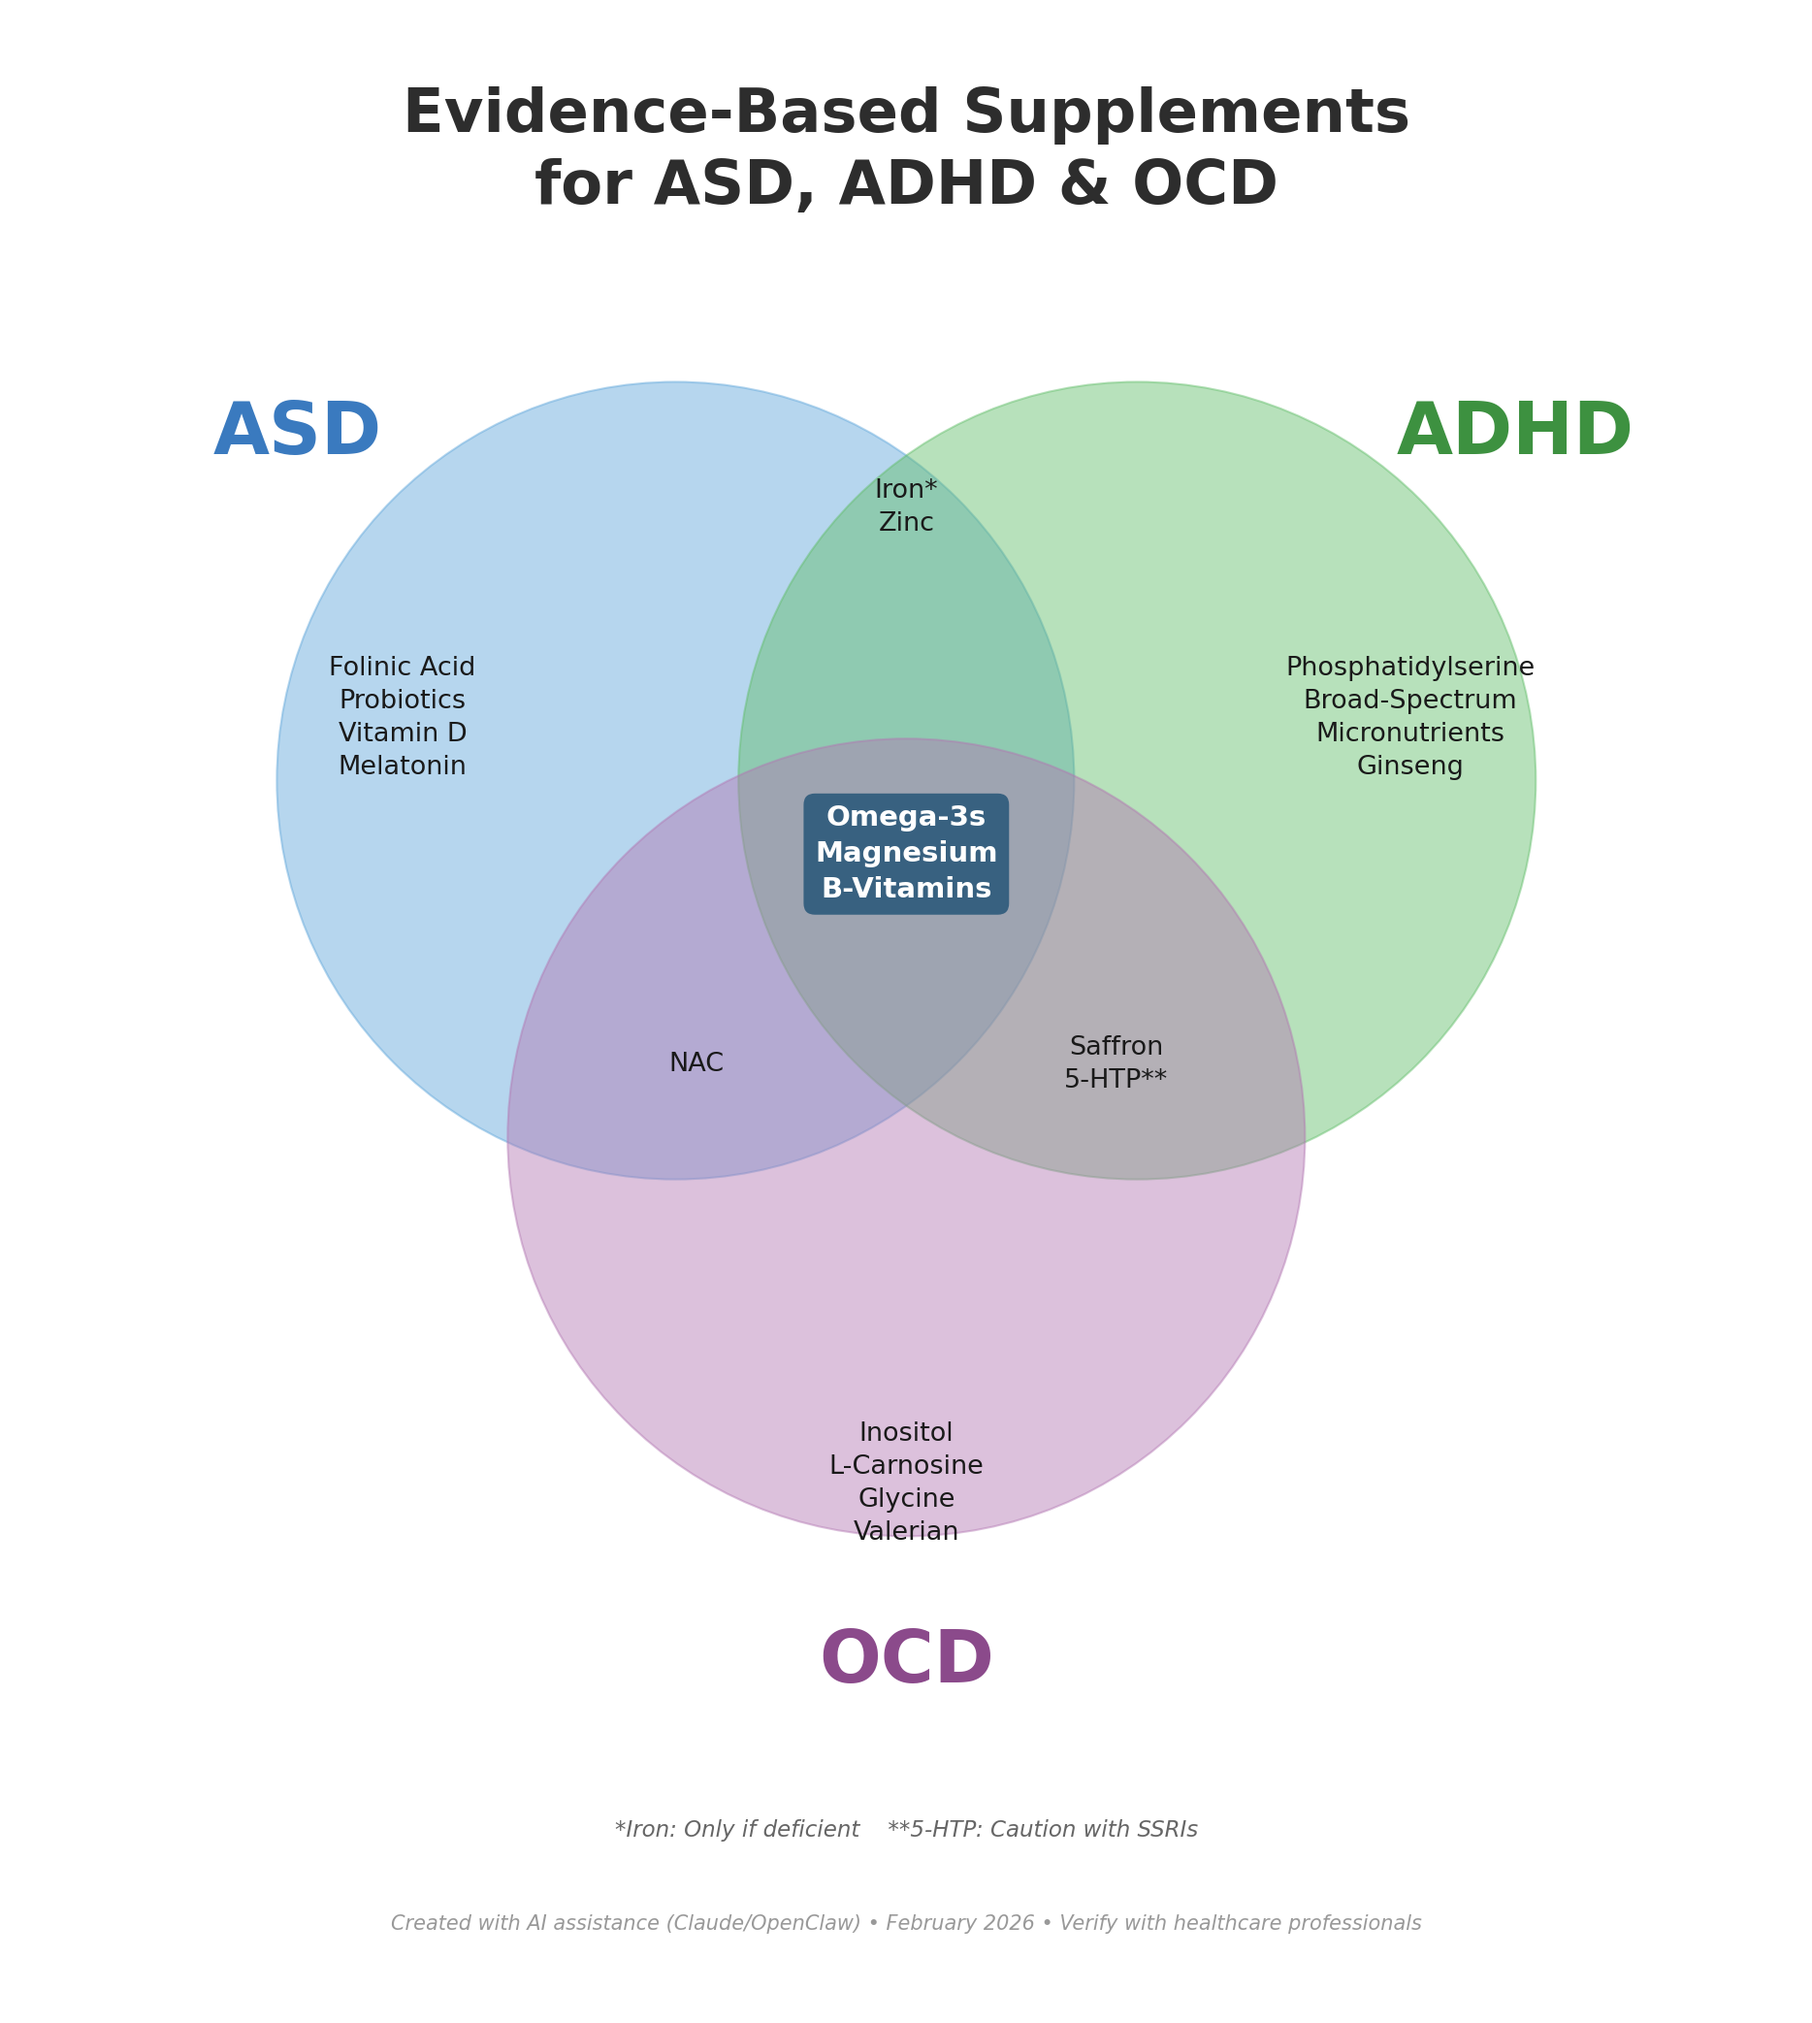
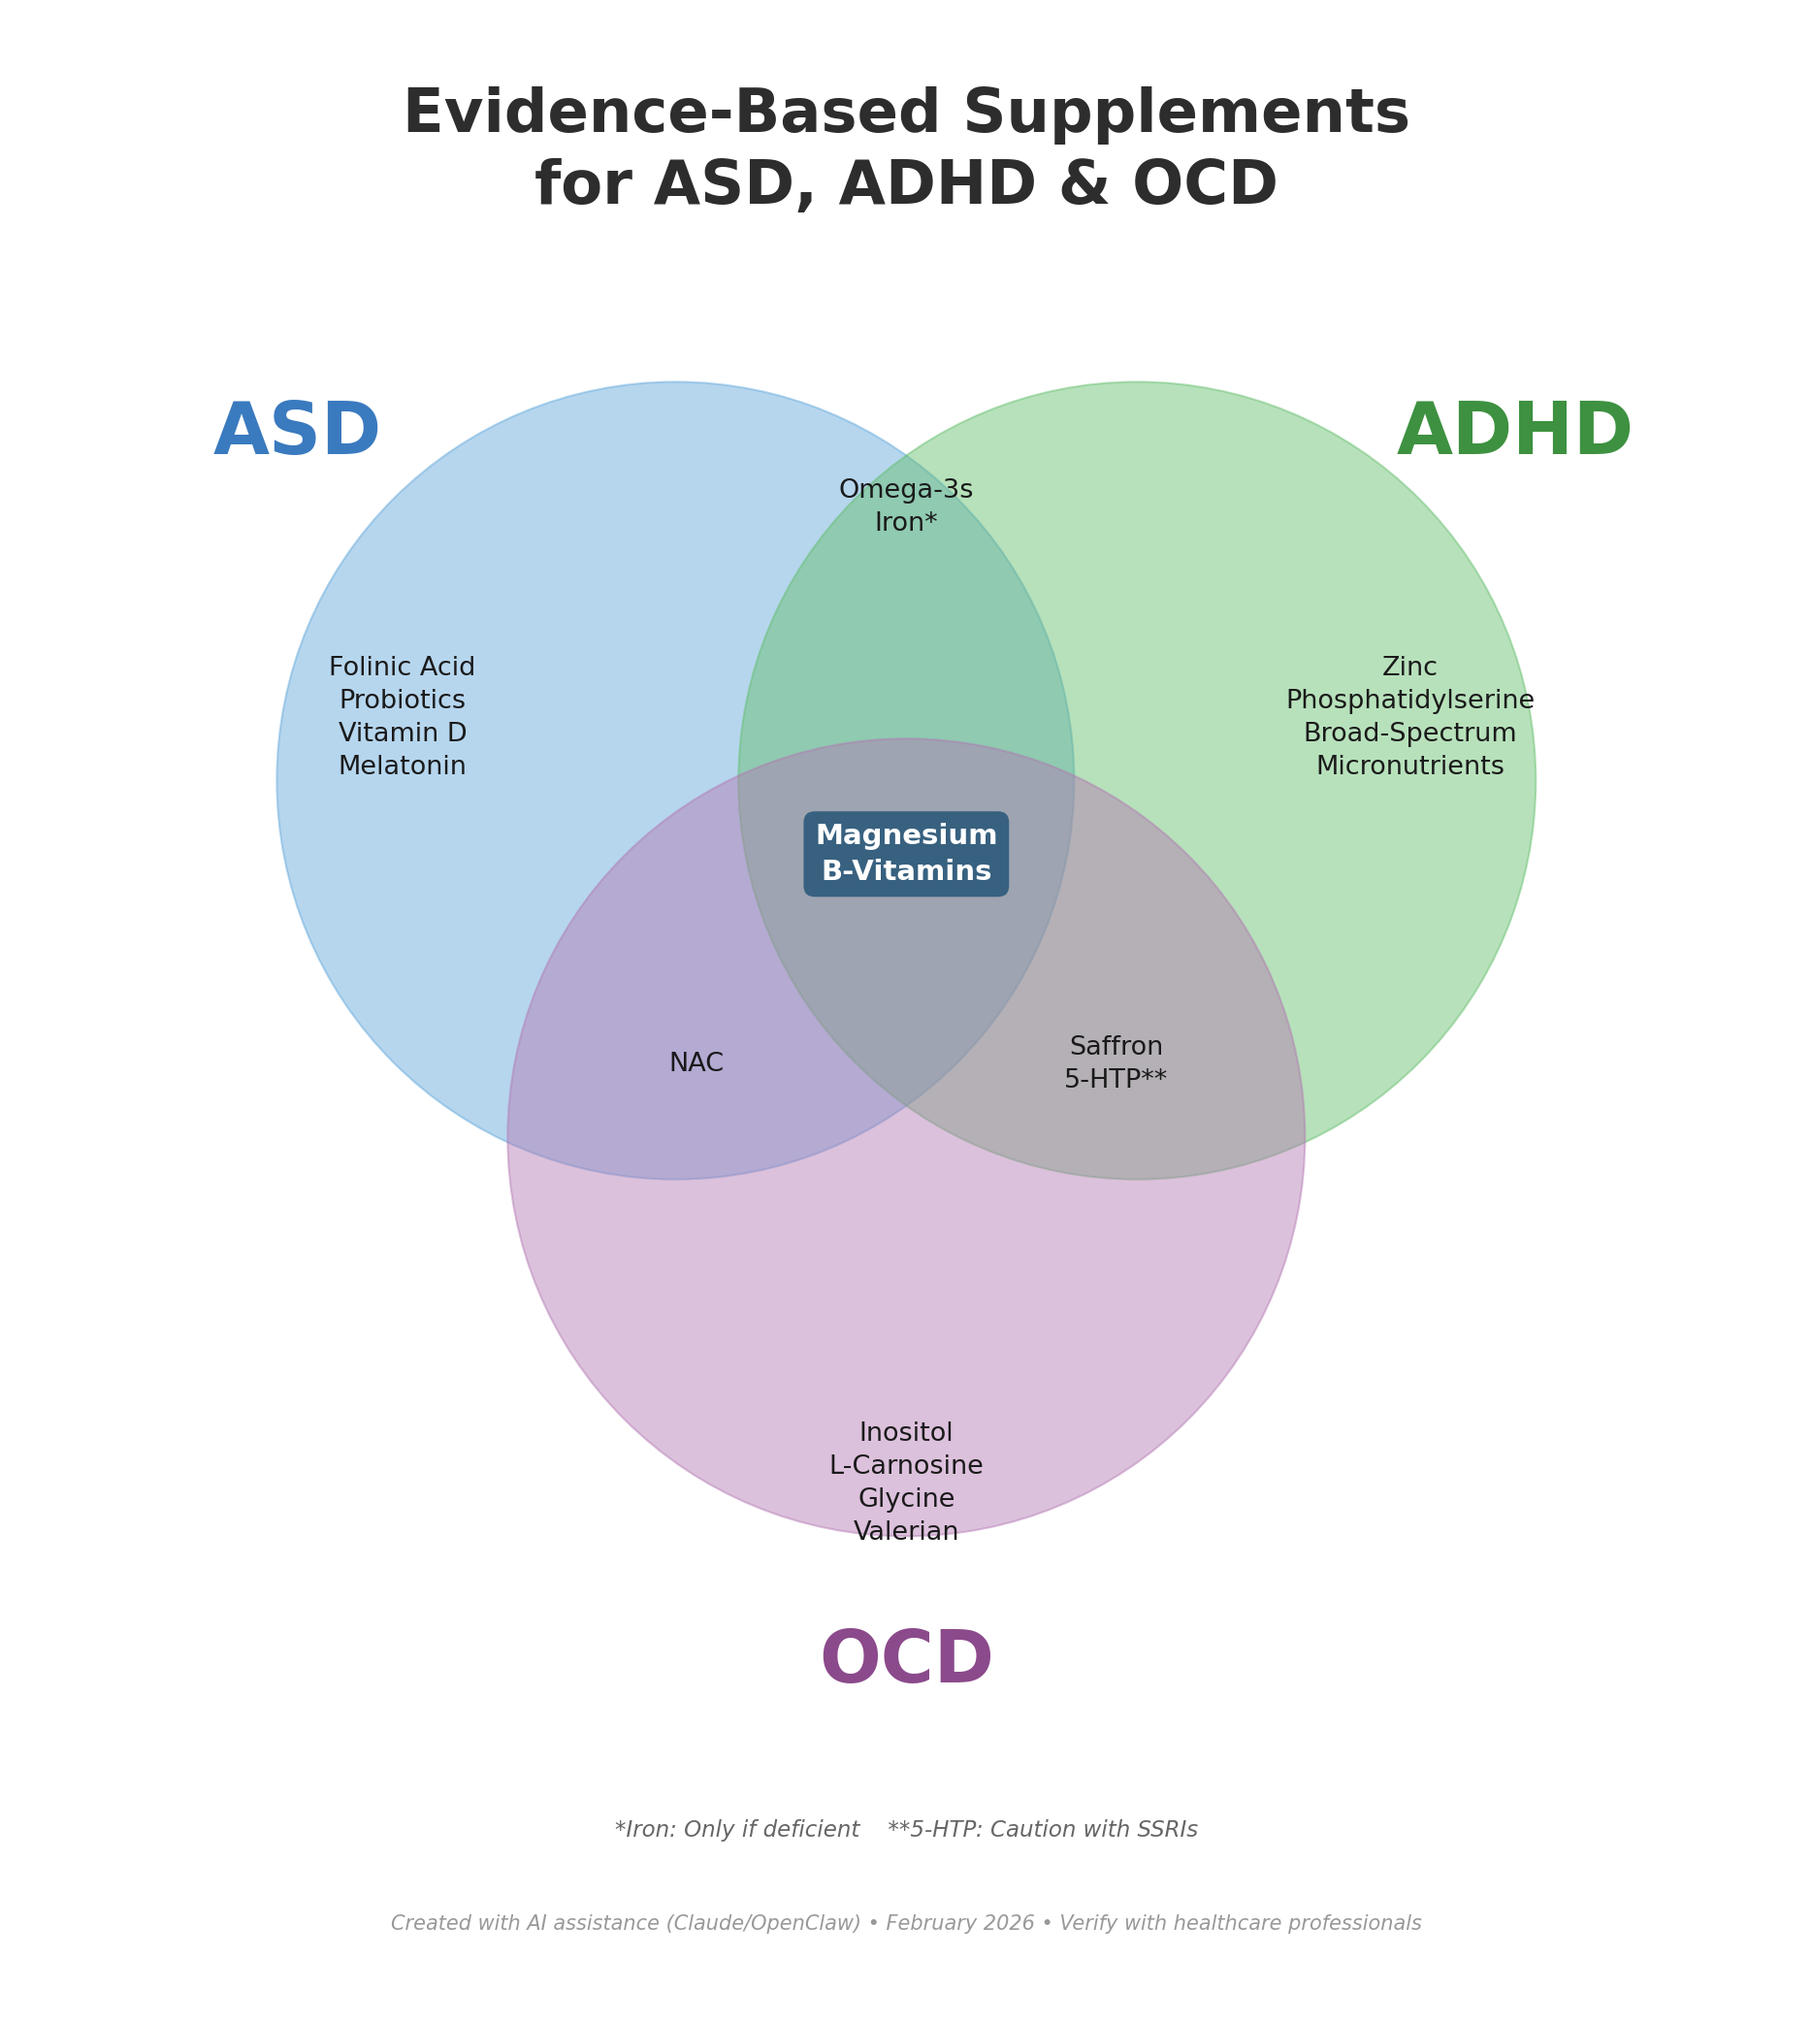
Fix accuracy: zinc is ADHD-specific, omega-3s in ASD+ADHD overlap

Changed region(s): [[0.4347, 0.3741, 0.5589, 0.4676], [0.7141, 0.3118, 0.8383, 0.4053], [0.4657, 0.2182, 0.5278, 0.2494]]

diff --git a/src/app/page.tsx b/src/app/page.tsx
@@ -6,7 +6,7 @@ const projects = [
     category: "Research Synthesis",
     title: "Evidence-Based Supplements for ASD, ADHD & OCD",
     description:
-      "What if three simple supplements could help your kid's brain? When my son was diagnosed with ASD, I dove into the research. Hundreds of studies later, I found something surprising: Omega-3s, Zinc, and Magnesium help all three conditions: ASD, ADHD, and OCD. Even better, they work together. Omega-3s boost zinc absorption. Magnesium calms the nervous system at bedtime. Start with fish oil at breakfast and magnesium before bed. Two simple habits, real science behind them.",
+      "What if a few simple supplements could help your kid's brain? When my son was diagnosed with ASD, I dove into the research. Hundreds of studies later, I found surprising overlaps: Omega-3s help both ASD and ADHD. Zinc can cut ADHD medication needs by 37%. NAC reduces irritability in ASD and helps OCD. The key is knowing which ones actually have evidence. Start with fish oil at breakfast. Two capsules, real science behind them.",
     github:
       "https://github.com/acorona1234/supplement-research",
     image: "/images/supplements-venn-diagram.png",
